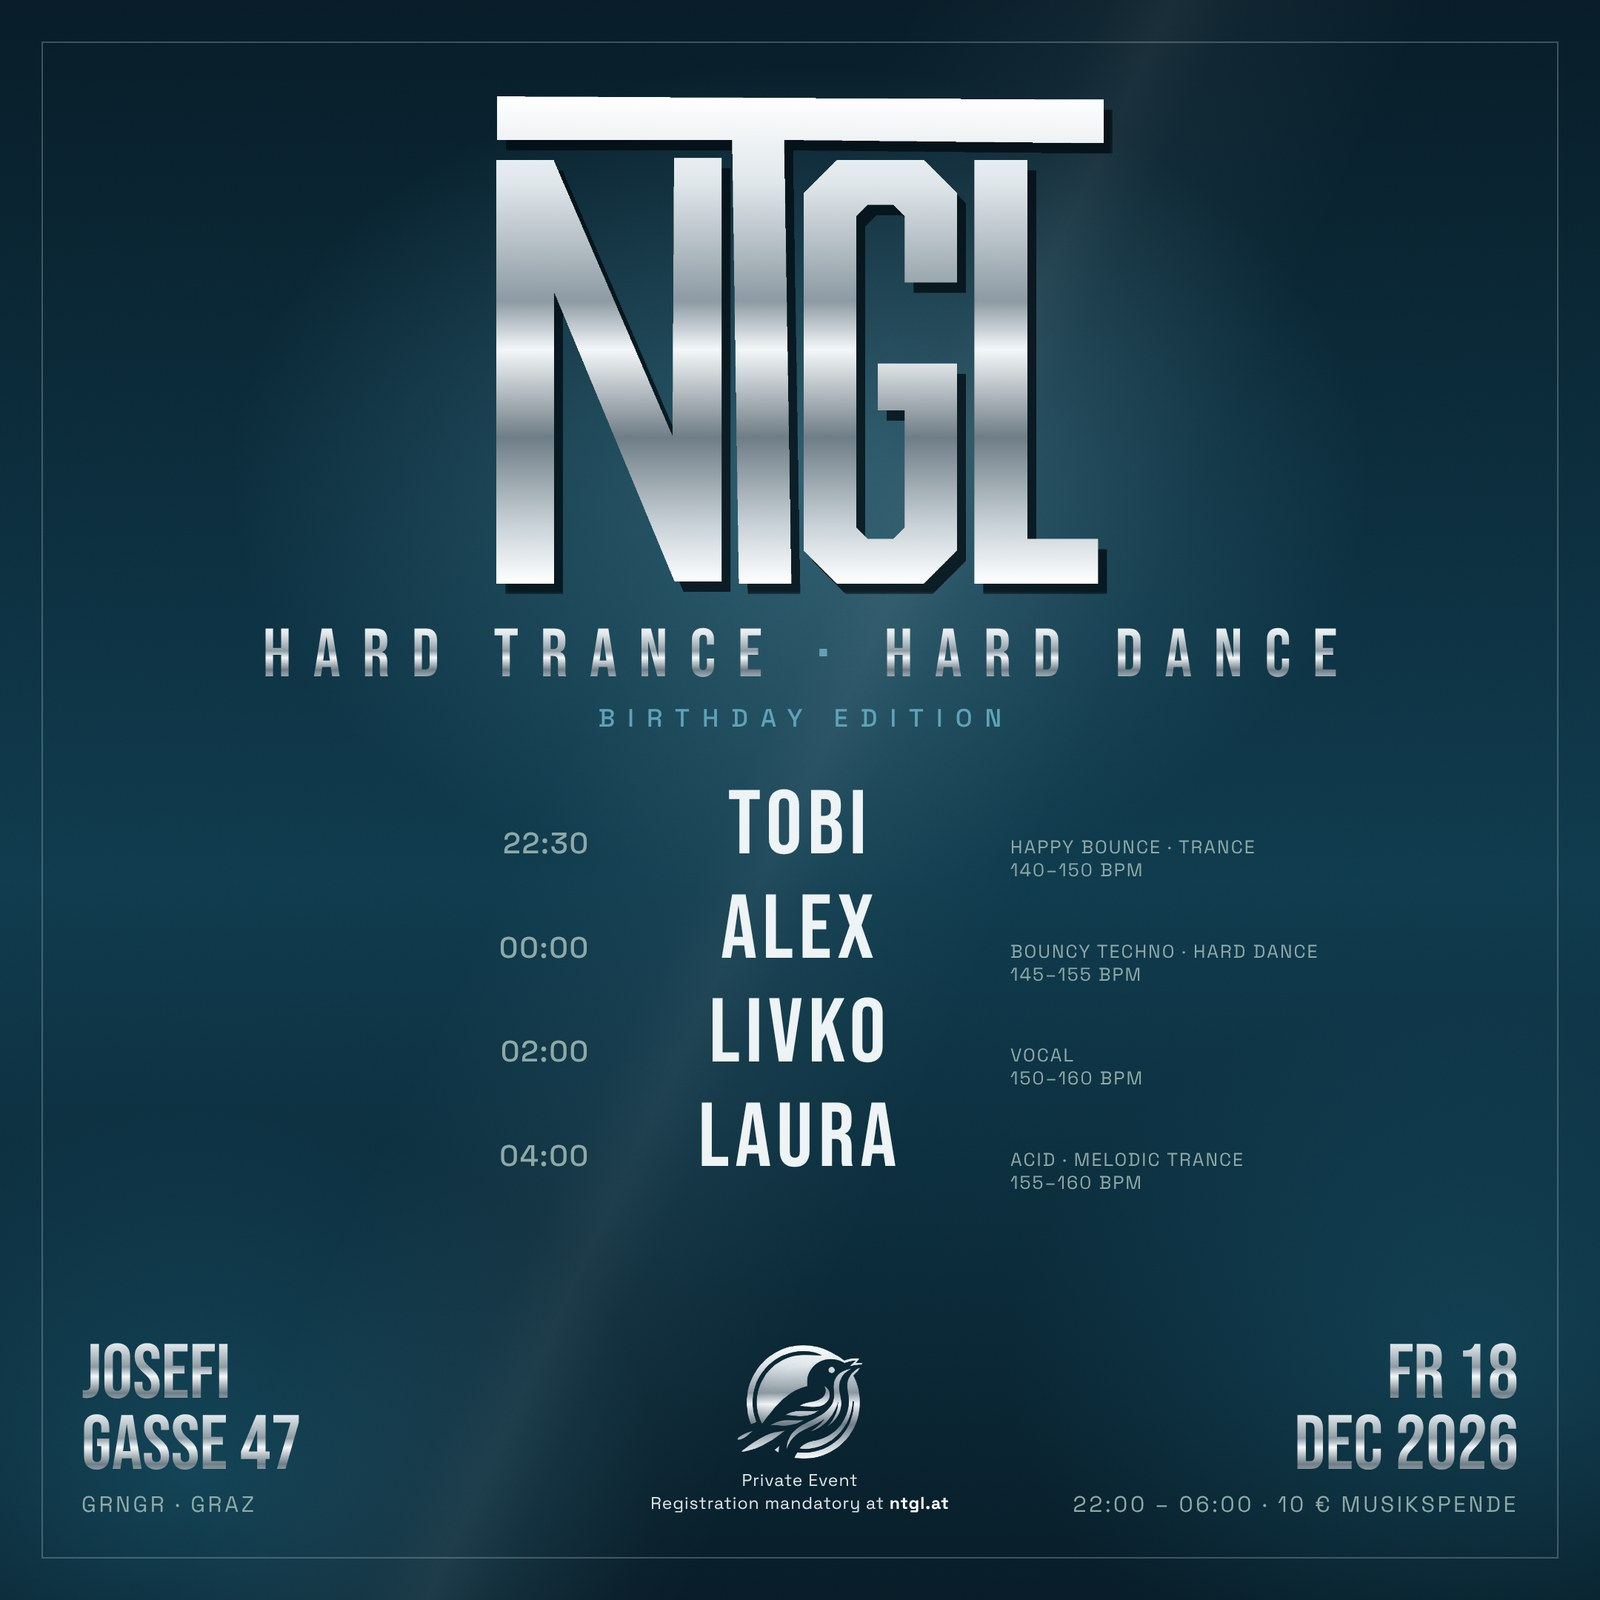
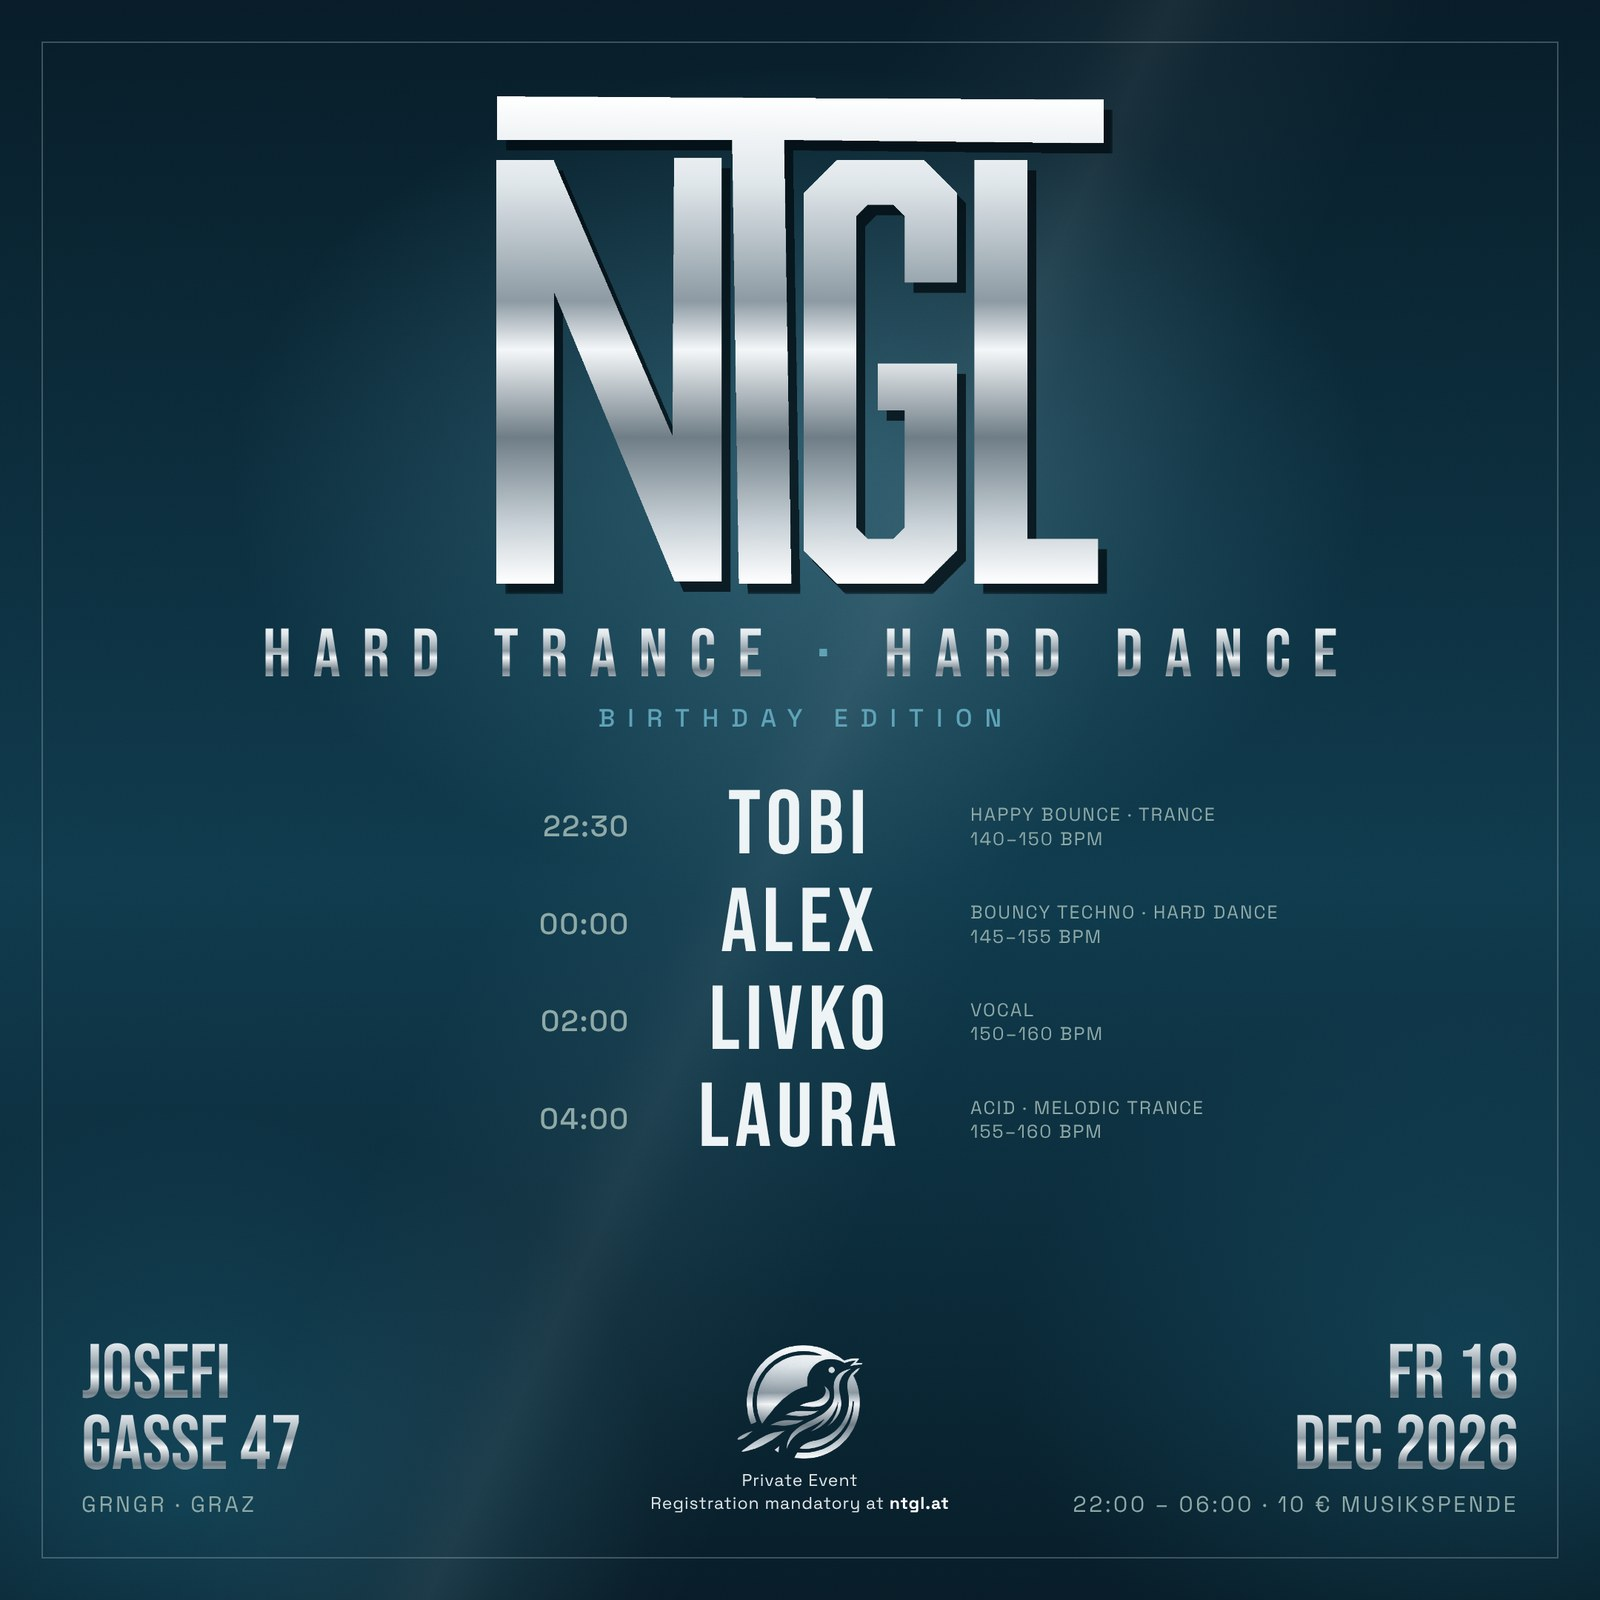
Flyer: Zeit, Name und Genre im Line-up auf eine Mittelachse
Zeilen als Raster 1fr / 380px / 1fr mit vertikaler Zentrierung statt
Grundlinie, dadurch stehen Zeit und Genre mittig neben dem Namen.
Render-Skript als .cjs, weil das Projekt ES-Module nutzt.

Claude-Session: https://claude.ai/code/session_0133Uq97hdbaRy6JXP5f6P4E

diff --git a/design/flyer-2026-12-18/flyer.html b/design/flyer-2026-12-18/flyer.html
@@ -41,10 +41,10 @@ html,body{width:2160px;height:2160px;background:var(--ink)}
   font-size:34px;letter-spacing:.5em;padding-left:.5em;color:var(--blue-300);text-transform:uppercase}
 
 .lineup{position:absolute;top:1050px;left:0;right:0;display:flex;flex-direction:column;align-items:center;gap:0}
-.row{display:grid;grid-template-columns:560px 480px 560px;align-items:baseline}
-.t{font-family:"Space Grotesk";font-weight:500;font-size:40px;color:var(--fog);text-align:right;padding-right:44px;letter-spacing:.04em}
+.row{display:grid;grid-template-columns:1fr 380px 1fr;align-items:center;width:100%}
+.t{font-family:"Space Grotesk";font-weight:500;font-size:40px;color:var(--fog);text-align:right;padding-right:40px;letter-spacing:.04em;line-height:1}
 .n{font-size:122px;line-height:1.08;text-align:center;letter-spacing:.06em;color:#eef3f5}
-.g{white-space:nowrap;font-family:"Space Grotesk";font-size:25px;color:var(--fog);padding-left:44px;letter-spacing:.08em;text-transform:uppercase;line-height:1.25}
+.g{white-space:nowrap;font-family:"Space Grotesk";font-size:25px;color:var(--fog);padding-left:40px;letter-spacing:.08em;text-transform:uppercase;line-height:1.3}
 
 .bottom{position:absolute;left:110px;right:110px;bottom:115px;display:grid;grid-template-columns:1fr 300px 1fr;align-items:end}
 .loc,.date{font-size:104px;line-height:.92}

diff --git a/design/flyer-2026-12-18/README.md b/design/flyer-2026-12-18/README.md
@@ -10,7 +10,7 @@ Quadratischer Flyer (2160 px) als HTML, gerendert mit Playwright.
 Neu rendern:
 
 ```bash
-node render.js "$PWD/flyer.html" "$PWD/out.png"
+node render.cjs "$PWD/flyer.html" "$PWD/out.png"
 ```
 
 Web-Version: auf 1600 px verkleinern und als `public/flyers/2026-12-18.jpg` ablegen.
